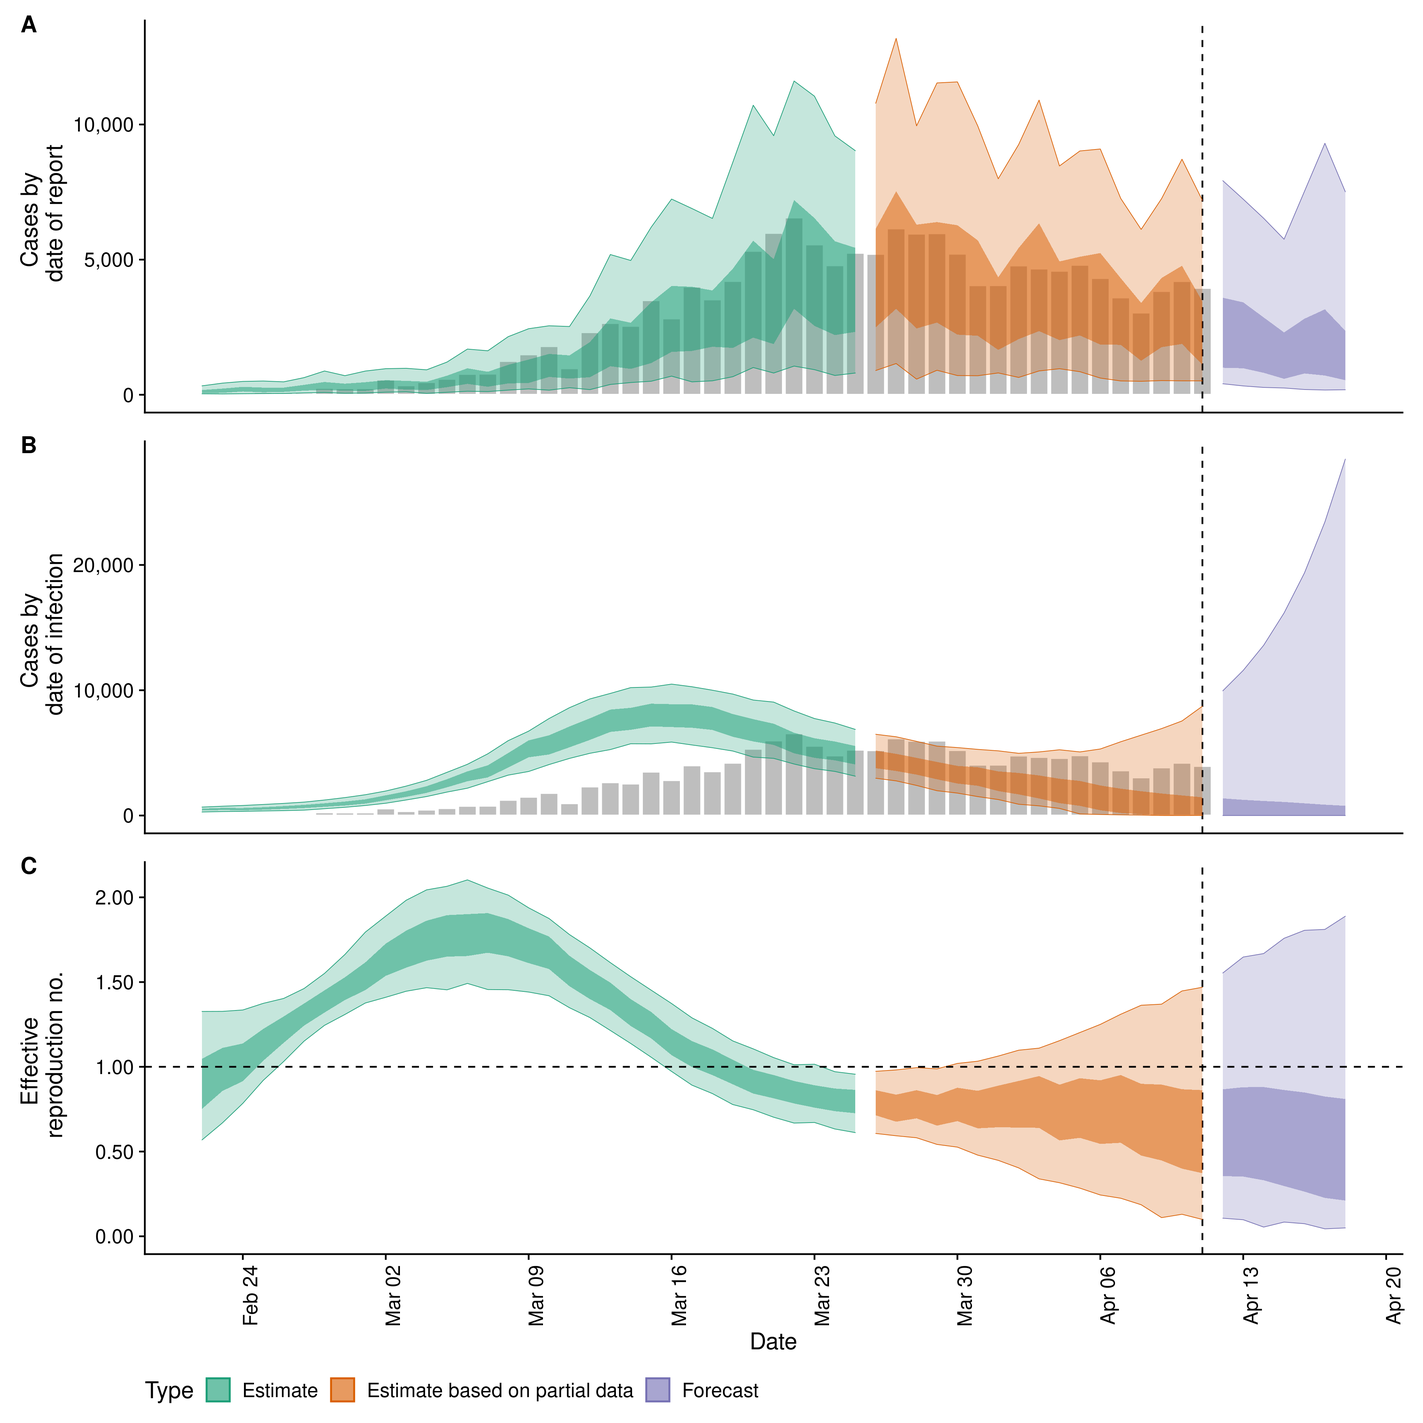
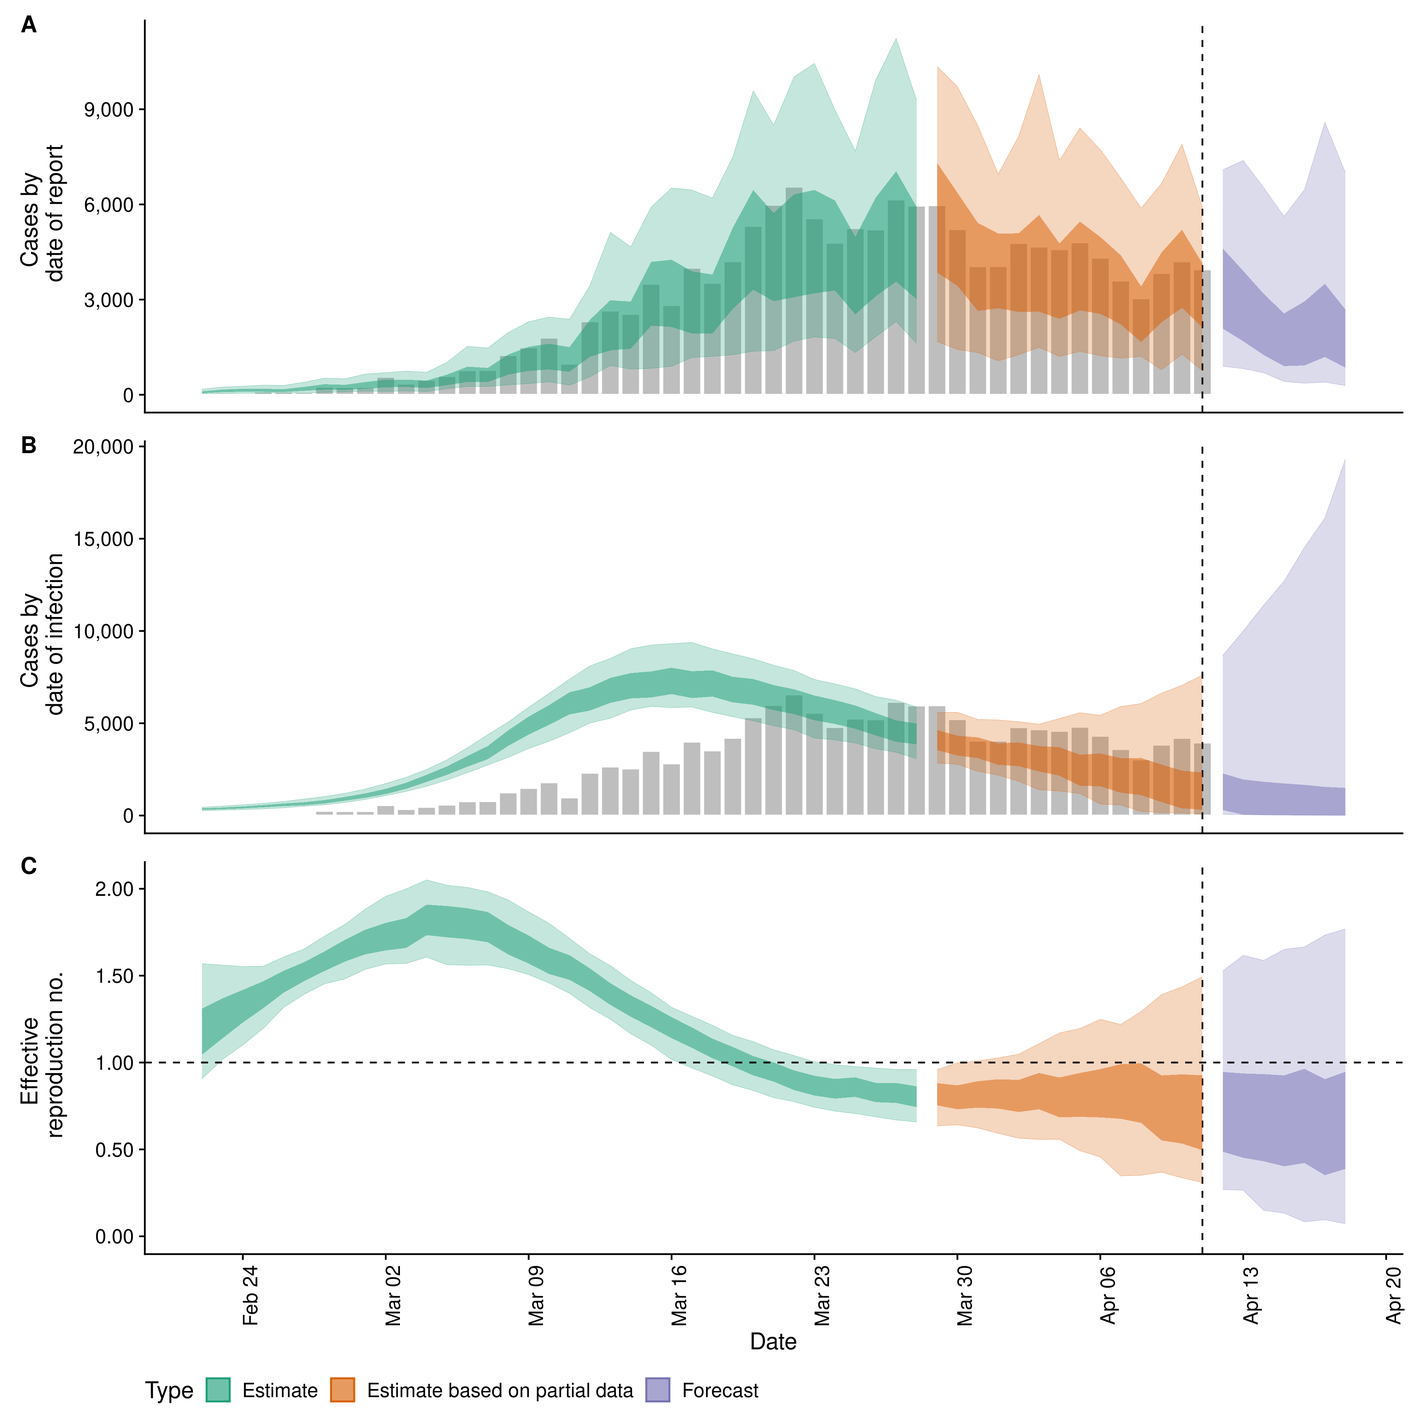
update readme

diff --git a/README.md b/README.md
@@ -17,12 +17,11 @@ development.
 
 It estimates the time-varying reproduction number on cases by date of
 infection (using a similar approach to that implemented in the
-[`{EpiEstim}`](https://github.com/annecori/EpiEstim)). Imputed
-infections are then mapped to observed data (for example cases by date
-of report) via a series of uncertain delay distributions (in the
-examples in the package documentation these are an incubation period and
-a reporting delay) and a reporting model that can include weekly
-periodicity.
+[`{EpiEstim}`](https://github.com/mrc-ide/EpiEstim)). Imputed infections
+are then mapped to observed data (for example cases by date of report)
+via a series of uncertain delay distributions (in the examples in the
+package documentation these are an incubation period and a reporting
+delay) and a reporting model that can include weekly periodicity.
 
 Uncertainty is propagated from all inputs into the final parameter
 estimates, helping to mitigate spurious findings. This is handled
@@ -35,7 +34,7 @@ time-varying reproduction number. Other options include:
   - A stationary Gaussian process (faster to estimate but currently
     gives reduced performance for real time estimates).
   - User specified breakpoints.
-  - As a constant.
+  - A Fixed reproduction number is supported.
   - As piecewise constant by combining a fixed reproduction number with
     breakpoints.
   - As a random walk (by combining a fixed reproduction number with
@@ -48,8 +47,8 @@ provides examples of the different options available.
 Forecasting is also supported for the time-varying reproduction number,
 infections and reported cases. The time-varying reproduction number can
 be forecast forwards in time using an integration with the
-[`{EpiSoon}`](https://epiforecasts.io/EpiSoon) package, and converted to
-a case forecast using the renewal equation. Alternatively, the
+[`{EpiSoon}`](https://epiforecasts.io/EpiSoon/) package, and converted
+to a case forecast using the renewal equation. Alternatively, the
 time-varying reproduction number and cases can be forecast using a
 Gaussian process.
 
@@ -128,16 +127,16 @@ reporting_delay$max <- 30
 
 reporting_delay
 #> $mean
-#> [1] 1.970138
+#> [1] 1.680835
 #> 
 #> $mean_sd
-#> [1] 0.1681175
+#> [1] 0.1177547
 #> 
 #> $sd
-#> [1] 1.025332
+#> [1] 1.036805
 #> 
 #> $sd_sd
-#> [1] 0.1058058
+#> [1] 0.113312
 #> 
 #> $max
 #> [1] 30
@@ -200,6 +199,7 @@ estimates <- EpiNow2::epinow(reported_cases = reported_cases,
                              horizon = 7, samples = 1000, warmup = 200, 
                              cores = 4, chains = 4, verbose = TRUE, 
                              adapt_delta = 0.95)
+#> DEBUG [2020-08-26 15:22:46] Running for 1000 samples (across 4 chains each with a warm up of 200 iterations each) and 71 time steps of which 7 are a forecast
 
 names(estimates)
 #> [1] "estimates"                "estimated_reported_cases"
@@ -213,17 +213,17 @@ parameters in an easily explored format.
 estimates$estimates
 #> $samples
 #>                 variable        parameter time       date sample       value
-#>      1:       infections       infections    1 2020-02-05      1    1.867327
-#>      2:       infections       infections    2 2020-02-06      1   10.415739
-#>      3:       infections       infections    3 2020-02-07      1   16.015825
-#>      4:       infections       infections    4 2020-02-08      1   34.386094
-#>      5:       infections       infections    5 2020-02-09      1   48.276454
+#>      1:       infections       infections    1 2020-02-08      1    2.206644
+#>      2:       infections       infections    2 2020-02-09      1    9.431478
+#>      3:       infections       infections    3 2020-02-10      1   21.395270
+#>      4:       infections       infections    4 2020-02-11      1   30.846361
+#>      5:       infections       infections    5 2020-02-12      1   46.237732
 #>     ---                                                                     
-#> 258070: prior_infections prior_infections   70 2020-04-14      1 2455.552770
-#> 258071: prior_infections prior_infections   71 2020-04-15      1 2394.825740
-#> 258072: prior_infections prior_infections   72 2020-04-16      1 2335.600519
-#> 258073: prior_infections prior_infections   73 2020-04-17      1 2277.839967
-#> 258074: prior_infections prior_infections   74 2020-04-18      1 2221.507862
+#> 255067: prior_infections prior_infections   67 2020-04-14      1 2647.130393
+#> 255068: prior_infections prior_infections   68 2020-04-15      1 2581.665553
+#> 255069: prior_infections prior_infections   69 2020-04-16      1 2517.819692
+#> 255070: prior_infections prior_infections   70 2020-04-17      1 2455.552770
+#> 255071: prior_infections prior_infections   71 2020-04-18      1 2394.825740
 #>         strat     type
 #>      1:  <NA> estimate
 #>      2:  <NA> estimate
@@ -231,37 +231,37 @@ estimates$estimates
 #>      4:  <NA> estimate
 #>      5:  <NA> estimate
 #>     ---               
-#> 258070:  <NA> forecast
-#> 258071:  <NA> forecast
-#> 258072:  <NA> forecast
-#> 258073:  <NA> forecast
-#> 258074:  <NA> forecast
+#> 255067:  <NA> forecast
+#> 255068:  <NA> forecast
+#> 255069:  <NA> forecast
+#> 255070:  <NA> forecast
+#> 255071:  <NA> forecast
 #> 
 #> $summarised
-#>            date       variable strat     type      bottom         top
-#>   1: 2020-02-22              R  <NA> estimate   0.5684197    1.326612
-#>   2: 2020-02-23              R  <NA> estimate   0.6689788    1.327115
-#>   3: 2020-02-24              R  <NA> estimate   0.7843623    1.335338
-#>   4: 2020-02-25              R  <NA> estimate   0.9199542    1.374425
-#>   5: 2020-02-26              R  <NA> estimate   1.0311702    1.403387
-#>  ---                                                                 
-#> 328: 2020-04-14 reported_cases  <NA> forecast 271.0000000 6530.000000
-#> 329: 2020-04-15 reported_cases  <NA> forecast 250.0000000 5754.000000
-#> 330: 2020-04-16 reported_cases  <NA> forecast 194.0000000 7529.000000
-#> 331: 2020-04-17 reported_cases  <NA> forecast 175.0000000 9305.000000
-#> 332: 2020-04-18 reported_cases  <NA> forecast 185.0000000 7511.000000
-#>            lower       upper       median         mean           sd
-#>   1:   0.7517412    1.047230    0.9197803    0.9378134 2.289810e-01
-#>   2:   0.8574849    1.111401    0.9812533    0.9931448 2.000579e-01
-#>   3:   0.9151091    1.137584    1.0556009    1.0586086 1.707855e-01
-#>   4:   1.0358071    1.223475    1.1305832    1.1335666 1.420613e-01
-#>   5:   1.1415192    1.296867    1.2133702    1.2167753 1.165027e-01
-#>  ---                                                               
-#> 328: 812.0000000 2861.000000 2619.0000000 3408.0960000 3.077887e+03
-#> 329: 590.0000000 2305.000000 2080.5000000 3085.2360000 4.127134e+03
-#> 330: 787.0000000 2813.000000 2438.0000000 3891.4520000 5.831976e+03
-#> 331: 711.0000000 3160.000000 2891.5000000 5133.8350000 9.891106e+03
-#> 332: 539.0000000 2367.000000 2188.0000000 5545.4320000 2.827589e+04
+#>            date       variable strat     type     bottom         top
+#>   1: 2020-02-22              R  <NA> estimate   0.906830    1.568452
+#>   2: 2020-02-23              R  <NA> estimate   1.017340    1.560870
+#>   3: 2020-02-24              R  <NA> estimate   1.101175    1.552501
+#>   4: 2020-02-25              R  <NA> estimate   1.196505    1.554018
+#>   5: 2020-02-26              R  <NA> estimate   1.316793    1.607314
+#>  ---                                                                
+#> 322: 2020-04-14 reported_cases  <NA> forecast 695.000000 6529.000000
+#> 323: 2020-04-15 reported_cases  <NA> forecast 419.000000 5621.000000
+#> 324: 2020-04-16 reported_cases  <NA> forecast 364.000000 6466.000000
+#> 325: 2020-04-17 reported_cases  <NA> forecast 397.000000 8587.000000
+#> 326: 2020-04-18 reported_cases  <NA> forecast 289.000000 7005.000000
+#>            lower       upper      median        mean           sd
+#>   1:    1.044737    1.309596    1.223438    1.222365 2.022448e-01
+#>   2:    1.139059    1.368749    1.266639    1.270122 1.696516e-01
+#>   3:    1.230104    1.417863    1.323299    1.325053 1.385959e-01
+#>   4:    1.312648    1.467412    1.381972    1.385947 1.109667e-01
+#>   5:    1.402101    1.527912    1.448480    1.451127 9.032870e-02
+#>  ---                                                             
+#> 322: 1254.000000 3183.000000 2772.000000 3386.243000 2.378292e+03
+#> 323:  903.000000 2562.000000 2342.000000 3033.583000 2.574506e+03
+#> 324:  924.000000 2942.000000 2685.500000 3657.875000 4.357484e+03
+#> 325: 1191.000000 3496.000000 3096.000000 5197.417000 1.469759e+04
+#> 326:  854.000000 2691.000000 2355.000000 5417.498000 3.578082e+04
 ```
 
 Reported cases are returned separately in order to ease reporting of
@@ -271,78 +271,78 @@ forecasts and model evaluation.
 estimates$estimated_reported_cases
 #> $samples
 #>              date sample cases  type
-#>     1: 2020-02-22      1   203 gp_rt
-#>     2: 2020-02-23      1   341 gp_rt
-#>     3: 2020-02-24      1    53 gp_rt
-#>     4: 2020-02-25      1   110 gp_rt
-#>     5: 2020-02-26      1    47 gp_rt
+#>     1: 2020-02-22      1    93 gp_rt
+#>     2: 2020-02-23      1   170 gp_rt
+#>     3: 2020-02-24      1   119 gp_rt
+#>     4: 2020-02-25      1   200 gp_rt
+#>     5: 2020-02-26      1    78 gp_rt
 #>    ---                              
-#> 56996: 2020-04-14   1000  3775 gp_rt
-#> 56997: 2020-04-15   1000  4102 gp_rt
-#> 56998: 2020-04-16   1000  5934 gp_rt
-#> 56999: 2020-04-17   1000 11467 gp_rt
-#> 57000: 2020-04-18   1000 11121 gp_rt
+#> 56996: 2020-04-14   1000  1464 gp_rt
+#> 56997: 2020-04-15   1000  1581 gp_rt
+#> 56998: 2020-04-16   1000  1439 gp_rt
+#> 56999: 2020-04-17   1000  1499 gp_rt
+#> 57000: 2020-04-18   1000  2037 gp_rt
 #> 
 #> $summarised
-#>           date  type bottom   top lower upper median     mean         sd
-#>  1: 2020-02-22 gp_rt     35   330    57   175  159.0  178.002   103.4936
-#>  2: 2020-02-23 gp_rt     30   430    69   227  211.0  240.528   150.2495
-#>  3: 2020-02-24 gp_rt     38   493   121   292  242.0  276.120   161.1148
-#>  4: 2020-02-25 gp_rt     44   508    91   264  237.5  274.978   163.7934
-#>  5: 2020-02-26 gp_rt     48   478   105   264  230.5  266.161   162.8148
-#>  6: 2020-02-27 gp_rt     70   634   153   366  298.0  342.531   202.6564
-#>  7: 2020-02-28 gp_rt     82   879   184   471  388.5  458.013   275.4754
-#>  8: 2020-02-29 gp_rt     55   706   149   410  350.5  394.607   248.7836
-#>  9: 2020-03-01 gp_rt     64   877   143   464  418.5  486.548   287.7215
-#> 10: 2020-03-02 gp_rt     94   965   230   537  441.0  508.601   321.3313
-#> 11: 2020-03-03 gp_rt    109   979   195   513  440.5  513.409   319.7521
-#> 12: 2020-03-04 gp_rt     50   922   175   482  414.5  494.278   335.9354
-#> 13: 2020-03-05 gp_rt     90  1209   280   706  593.0  671.070   406.4826
-#> 14: 2020-03-06 gp_rt    130  1690   403   978  782.5  899.535   555.0464
-#> 15: 2020-03-07 gp_rt    118  1627   297   850  748.0  869.909   597.1382
-#> 16: 2020-03-08 gp_rt    172  2150   420  1107  946.5 1136.650   725.3866
-#> 17: 2020-03-09 gp_rt    216  2444   436  1301 1163.0 1334.771   819.6695
-#> 18: 2020-03-10 gp_rt    170  2552   660  1511 1230.0 1408.187   856.6881
-#> 19: 2020-03-11 gp_rt    260  2525   600  1456 1223.5 1398.798   868.1106
-#> 20: 2020-03-12 gp_rt    190  3658   648  1949 1772.5 2030.691  1291.7425
-#> 21: 2020-03-13 gp_rt    381  5188  1055  2824 2562.5 2852.796  1756.5564
-#> 22: 2020-03-14 gp_rt    452  4969   957  2664 2279.0 2674.353  1687.2145
-#> 23: 2020-03-15 gp_rt    500  6199  1171  3417 2980.5 3398.346  2109.9632
-#> 24: 2020-03-16 gp_rt    689  7241  1586  4025 3417.5 3877.684  2368.5666
-#> 25: 2020-03-17 gp_rt    477  6890  1622  3995 3330.0 3815.714  2380.7079
-#> 26: 2020-03-18 gp_rt    516  6524  1775  3859 3147.5 3516.918  2162.5979
-#> 27: 2020-03-19 gp_rt    668  8604  1734  4661 4011.0 4590.306  2838.5552
-#> 28: 2020-03-20 gp_rt   1007 10713  2114  5702 5161.5 6012.918  3686.1710
-#> 29: 2020-03-21 gp_rt    804  9585  1875  5014 4453.5 5174.663  3230.3387
-#> 30: 2020-03-22 gp_rt   1060 11609  3181  7203 5339.5 6226.785  3804.4701
-#> 31: 2020-03-23 gp_rt    928 11046  2548  6536 5295.0 6015.854  3787.9038
-#> 32: 2020-03-24 gp_rt    714  9577  2208  5678 5035.5 5623.255  3131.5741
-#> 33: 2020-03-25 gp_rt    804  9030  2327  5436 4453.5 4933.506  2894.2815
-#> 34: 2020-03-26 gp_rt    897 10785  2496  6139 5192.0 5960.224  3556.3619
-#> 35: 2020-03-27 gp_rt   1155 13188  3181  7527 6185.0 7120.340  4378.3017
-#> 36: 2020-03-28 gp_rt    578  9950  2453  6294 5241.0 5726.994  3362.1852
-#> 37: 2020-03-29 gp_rt    906 11538  2671  6388 5453.0 6247.617  3685.9409
-#> 38: 2020-03-30 gp_rt    710 11576  2224  6272 5442.5 6238.940  3851.1992
-#> 39: 2020-03-31 gp_rt    704  9942  2182  5711 4675.5 5458.867  3409.6736
-#> 40: 2020-04-01 gp_rt    807  7992  1659  4347 3725.0 4271.485  2573.2166
-#> 41: 2020-04-02 gp_rt    641  9259  2058  5431 4457.5 5100.306  3164.3220
-#> 42: 2020-04-03 gp_rt    881 10902  2355  6344 5364.0 6018.117  3626.1481
-#> 43: 2020-04-04 gp_rt    963  8466  2021  4932 4198.5 4744.331  2913.0317
-#> 44: 2020-04-05 gp_rt    853  9021  2193  5106 4314.0 4995.766  3008.5090
-#> 45: 2020-04-06 gp_rt    617  9093  1857  5242 4296.0 4924.858  3119.8174
-#> 46: 2020-04-07 gp_rt    511  7265  1847  4312 3525.5 4102.753  2592.8138
-#> 47: 2020-04-08 gp_rt    498  6118  1257  3397 2892.5 3340.726  2164.0422
-#> 48: 2020-04-09 gp_rt    524  7257  1761  4320 3478.5 3989.107  2569.6792
-#> 49: 2020-04-10 gp_rt    515  8716  1879  4772 3995.0 4709.114  3203.5281
-#> 50: 2020-04-11 gp_rt    514  7192  1118  3446 3130.5 3684.906  2454.1989
-#> 51: 2020-04-12 gp_rt    406  7921   999  3589 3221.0 3994.946  2896.3762
-#> 52: 2020-04-13 gp_rt    326  7236   980  3419 3099.0 3783.081  2755.6814
-#> 53: 2020-04-14 gp_rt    271  6530   812  2861 2619.0 3408.096  3077.8866
-#> 54: 2020-04-15 gp_rt    250  5754   590  2305 2080.5 3085.236  4127.1344
-#> 55: 2020-04-16 gp_rt    194  7529   787  2813 2438.0 3891.452  5831.9764
-#> 56: 2020-04-17 gp_rt    175  9305   711  3160 2891.5 5133.835  9891.1058
-#> 57: 2020-04-18 gp_rt    185  7511   539  2367 2188.0 5545.432 28275.8934
-#>           date  type bottom   top lower upper median     mean         sd
+#>           date  type bottom   top lower upper median     mean          sd
+#>  1: 2020-02-22 gp_rt     31   175    48   108   96.5  104.307    50.51481
+#>  2: 2020-02-23 gp_rt     43   243    83   163  139.5  148.957    69.30538
+#>  3: 2020-02-24 gp_rt     46   269    96   187  159.0  168.320    74.53631
+#>  4: 2020-02-25 gp_rt     56   303    91   186  161.0  175.871    84.52076
+#>  5: 2020-02-26 gp_rt     60   297    85   175  156.5  169.978    76.10236
+#>  6: 2020-02-27 gp_rt     58   397   123   247  215.0  237.670   119.01744
+#>  7: 2020-02-28 gp_rt     74   524   161   332  287.5  320.237   158.99453
+#>  8: 2020-02-29 gp_rt     91   504   155   313  272.0  298.097   139.30512
+#>  9: 2020-03-01 gp_rt    112   652   186   399  350.0  381.556   183.33621
+#> 10: 2020-03-02 gp_rt    102   697   235   473  398.0  426.200   210.03135
+#> 11: 2020-03-03 gp_rt    119   745   244   476  393.0  431.998   219.71267
+#> 12: 2020-03-04 gp_rt     98   708   214   447  389.0  428.876   212.76694
+#> 13: 2020-03-05 gp_rt    190  1019   302   633  567.0  615.846   294.66908
+#> 14: 2020-03-06 gp_rt    259  1528   403   885  784.5  879.237   444.90818
+#> 15: 2020-03-07 gp_rt    261  1474   404   846  765.0  846.184   425.04547
+#> 16: 2020-03-08 gp_rt    311  1963   633  1268 1070.5 1167.124   609.49882
+#> 17: 2020-03-09 gp_rt    352  2301   753  1511 1252.5 1354.985   656.34476
+#> 18: 2020-03-10 gp_rt    406  2451   796  1609 1322.5 1427.365   694.09473
+#> 19: 2020-03-11 gp_rt    300  2380   726  1502 1323.0 1463.005   759.85016
+#> 20: 2020-03-12 gp_rt    565  3445  1198  2362 1911.0 2086.378  1040.60247
+#> 21: 2020-03-13 gp_rt    924  5119  1399  2979 2636.0 2919.580  1477.38699
+#> 22: 2020-03-14 gp_rt    806  4664  1450  2936 2463.0 2705.797  1303.82767
+#> 23: 2020-03-15 gp_rt    831  5917  2178  4188 3215.5 3537.972  1715.04663
+#> 24: 2020-03-16 gp_rt    897  6518  2137  4256 3554.0 3883.479  1899.95173
+#> 25: 2020-03-17 gp_rt   1176  6454  1931  3889 3351.5 3703.498  1747.03212
+#> 26: 2020-03-18 gp_rt   1209  6201  1929  3789 3153.0 3491.560  1735.67271
+#> 27: 2020-03-19 gp_rt   1262  7499  2709  5265 4191.0 4512.308  2115.62561
+#> 28: 2020-03-20 gp_rt   1370  9582  3310  6452 5533.0 5950.403  2785.43400
+#> 29: 2020-03-21 gp_rt   1392  8500  2949  5727 4694.5 5008.814  2342.54236
+#> 30: 2020-03-22 gp_rt   1689 10023  3075  6316 5376.5 5891.644  2845.84631
+#> 31: 2020-03-23 gp_rt   1820 10445  3198  6456 5507.0 6033.768  2923.72504
+#> 32: 2020-03-24 gp_rt   1773  8987  3287  6124 5014.5 5363.948  2520.06870
+#> 33: 2020-03-25 gp_rt   1332  7680  2535  4977 4247.0 4606.321  2182.78039
+#> 34: 2020-03-26 gp_rt   1830  9924  3106  6214 5407.0 5803.149  2741.00916
+#> 35: 2020-03-27 gp_rt   2308 11236  3566  7045 6161.0 6619.664  3299.92875
+#> 36: 2020-03-28 gp_rt   1623  9285  3015  5923 5047.0 5427.988  2553.89665
+#> 37: 2020-03-29 gp_rt   1677 10351  3857  7317 5761.5 6183.392  3004.75043
+#> 38: 2020-03-30 gp_rt   1426  9718  3435  6368 5267.0 5739.116  2743.96398
+#> 39: 2020-03-31 gp_rt   1328  8490  2644  5417 4719.5 5104.631  2417.34093
+#> 40: 2020-04-01 gp_rt   1069  6956  2727  5083 4007.0 4277.459  1925.56661
+#> 41: 2020-04-02 gp_rt   1260  8153  2611  5088 4376.0 4823.408  2350.00527
+#> 42: 2020-04-03 gp_rt   1493 10095  2620  5668 5183.0 5747.842  3014.38984
+#> 43: 2020-04-04 gp_rt   1205  7391  2393  4770 4106.5 4460.568  2107.54760
+#> 44: 2020-04-05 gp_rt   1366  8411  2658  5458 4610.0 4964.977  2407.32976
+#> 45: 2020-04-06 gp_rt   1229  7727  2552  4974 4203.0 4636.208  2238.66048
+#> 46: 2020-04-07 gp_rt   1153  6839  2220  4397 3573.5 3992.999  2067.80000
+#> 47: 2020-04-08 gp_rt   1208  5882  1661  3414 3025.0 3343.165  1639.06683
+#> 48: 2020-04-09 gp_rt    789  6664  2286  4486 3515.5 3924.625  2061.85895
+#> 49: 2020-04-10 gp_rt   1279  7899  2743  5200 4164.5 4597.328  2373.24618
+#> 50: 2020-04-11 gp_rt    761  5915  2123  4139 3261.5 3613.558  1814.91540
+#> 51: 2020-04-12 gp_rt    896  7087  2086  4609 3600.5 4110.504  2342.33555
+#> 52: 2020-04-13 gp_rt    825  7385  1686  3904 3265.5 3911.608  2376.82439
+#> 53: 2020-04-14 gp_rt    695  6529  1254  3183 2772.0 3386.243  2378.29173
+#> 54: 2020-04-15 gp_rt    419  5621   903  2562 2342.0 3033.583  2574.50603
+#> 55: 2020-04-16 gp_rt    364  6466   924  2942 2685.5 3657.875  4357.48423
+#> 56: 2020-04-17 gp_rt    397  8587  1191  3496 3096.0 5197.417 14697.58863
+#> 57: 2020-04-18 gp_rt    289  7005   854  2691 2355.0 5417.498 35780.82391
+#>           date  type bottom   top lower upper median     mean          sd
 ```
 
 A summary table is returned for rapidly understanding the results and
@@ -351,14 +351,14 @@ for reporting purposes.
 ``` r
 estimates$summary
 #>                                  measure              estimate
-#> 1: New confirmed cases by infection date      1448 (8 -- 8726)
+#> 1: New confirmed cases by infection date     2180 (85 -- 7609)
 #> 2:        Expected change in daily cases                Unsure
-#> 3:            Effective reproduction no.      0.7 (0.1 -- 1.5)
-#> 4:                        Rate of growth -0.08 (-0.28 -- 0.15)
-#> 5:          Doubling/halving time (days)    -8.8 (4.6 -- -2.5)
+#> 3:            Effective reproduction no.    0.8 (0.31 -- 1.49)
+#> 4:                        Rate of growth -0.06 (-0.22 -- 0.12)
+#> 5:          Doubling/halving time (days)   -12.1 (5.6 -- -3.2)
 #>     numeric_estimate
 #> 1: <data.table[1x5]>
-#> 2:              0.73
+#> 2:              0.69
 #> 3: <data.table[1x5]>
 #> 4: <data.table[1x5]>
 #> 5: <data.table[1x3]>
@@ -407,6 +407,14 @@ estimates <- EpiNow2::regional_epinow(reported_cases = reported_cases,
                                       horizon = 7, samples = 1000, warmup = 200,
                                       cores = 4, chains = 4, adapt_delta = 0.95,
                                       verbose = TRUE)
+#> INFO [2020-08-26 15:25:06] Reporting estimates using data up to: 2020-04-11
+#> INFO [2020-08-26 15:25:06] Producing estimates for: testland, realland
+#> INFO [2020-08-26 15:25:06] Initialising estimates for: testland
+#> DEBUG [2020-08-26 15:25:06] Running for 1000 samples (across 4 chains each with a warm up of 200 iterations each) and 71 time steps of which 7 are a forecast
+#> INFO [2020-08-26 15:27:15] Completed estimates for: testland
+#> INFO [2020-08-26 15:27:15] Initialising estimates for: realland
+#> DEBUG [2020-08-26 15:27:15] Running for 1000 samples (across 4 chains each with a warm up of 200 iterations each) and 71 time steps of which 7 are a forecast
+#> INFO [2020-08-26 15:29:58] Completed estimates for: realland
 ```
 
 Results from each region are stored in a `regional` list with across
@@ -420,14 +428,14 @@ reporting (along with raw results for further processing).
 ``` r
 estimates$summary$summarised_results$table
 #>      Region New confirmed cases by infection date
-#> 1: realland                      1475 (1 -- 8980)
-#> 2: testland                      1690 (2 -- 8781)
+#> 1: realland                    2236 (125 -- 7642)
+#> 2: testland                     2066 (37 -- 7156)
 #>    Expected change in daily cases Effective reproduction no.
-#> 1:                         Unsure           0.7 (0.1 -- 1.5)
-#> 2:                         Unsure           0.8 (0.1 -- 1.5)
+#> 1:                         Unsure         0.81 (0.23 -- 1.4)
+#> 2:                         Unsure        0.78 (0.18 -- 1.39)
 #>           Rate of growth Doubling/halving time (days)
-#> 1: -0.08 (-0.29 -- 0.15)           -8.5 (4.5 -- -2.4)
-#> 2: -0.07 (-0.32 -- 0.13)           -9.8 (5.4 -- -2.1)
+#> 1:  -0.05 (-0.2 -- 0.14)            -13.2 (5 -- -3.4)
+#> 2: -0.06 (-0.25 -- 0.12)          -11.2 (5.8 -- -2.8)
 ```
 
 A range of plots are again returned (with the single summary plot shown
